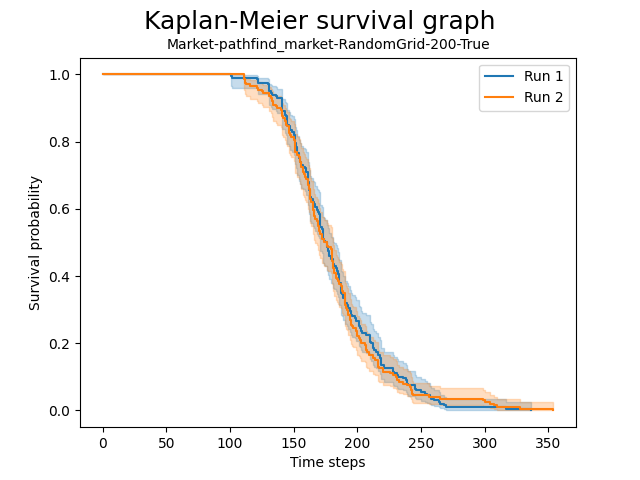
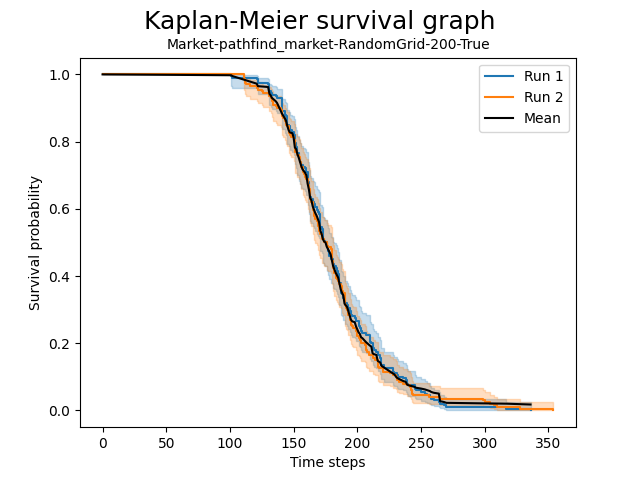
means of km plots

diff --git a/evaluation.py b/evaluation.py
@@ -6,6 +6,7 @@ import pandas as pd
 import os
 import glob
 from pathlib import Path
+import seaborn as sns
 
 
 kmf = KaplanMeierFitter()
@@ -30,15 +31,38 @@ for file in csv_files:
 for group_key, files in grouped_files.items():
     fig = plt.figure()
 
-    print(f"Group: {group_key}")
-    for file_path in files:
+    # For computing the mean
+    surv_func_ci = pd.DataFrame()
+    amt_of_runs = len(files)
+
+    for i, file_path in enumerate(files):
         data = pd.read_csv(file_path)
         kmf.fit(data['T'], data['E'])
         kmf.plot_survival_function(label=f'Run {data["RUN_NUMBER"][0]}')
+        surv_func_ci[f'surv_func-{str(i)}'] = kmf.survival_function_
+        surv_func_ci[f'ci_lower-{str(i)}'] = kmf.confidence_interval_['KM_estimate_lower_0.95']
+        surv_func_ci[f'ci_upper-{str(i)}'] = kmf.confidence_interval_['KM_estimate_upper_0.95']
+
+        time = max(data['T'])
+
+    surv_func_ci = surv_func_ci.fillna(method='ffill')
+
+    columns = ['surv_func', 'ci_lower', 'ci_upper']
+    means = {}
+    for column in columns:
+        pair_columns = [column + '-' + str(i) for i in range(amt_of_runs)]
+        means[column] = surv_func_ci[pair_columns].mean(axis=1)
+        
+    num = len(means['surv_func'])
+    # plt.plot(means['surv_func'], '--k', linewidth=2, label='Mean')
+    # plt.fill_between(np.linspace(0, time, num), means['ci_lower'], means['ci_upper'], color='k', alpha=.1)
+    sns.lineplot(means['surv_func'], errorbar=('ci', 95), label='Mean', color='black')
+
     plt.suptitle('Kaplan-Meier survival graph', fontsize=18)
     plt.title(group_key, fontsize=10)
     plt.xlabel('Time steps')
     plt.ylabel('Survival probability')
+    plt.legend()
 
     fig.show()
     plt.savefig(f'imgs/km-{group_key}.png')
